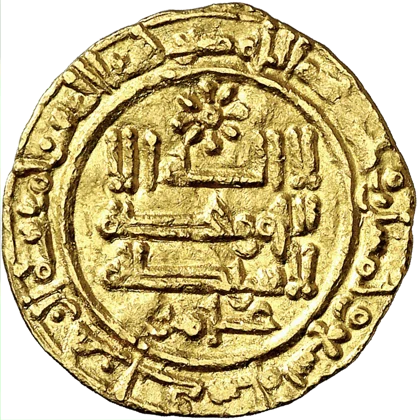
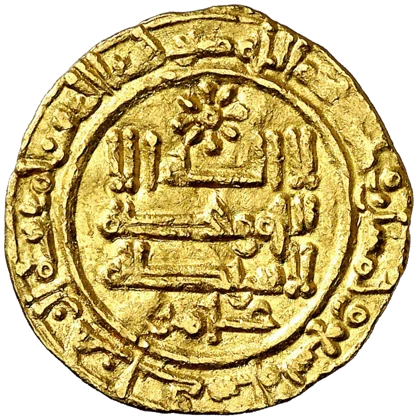
Vitrina de monedas: más brillo y presencia, Moneda7 nueva reprocesada y sin desenfoque en Moneda5/6

diff --git a/src/components/Workflow.tsx b/src/components/Workflow.tsx
@@ -158,14 +158,14 @@ export default function Workflow({ content: C }: Props) {
                 cobre carlista 30mm, dracma parto 20mm, dinar al-Hakam II 22mm, 8 reales 39mm */}
             {[
               // Anillo homogéneo: 8 posiciones equiespaciadas (N/S/E/O a r≈160, diagonales a r≈113)
-              { src: '/assets/Moneda2.webp', size: 130, left: 'calc(50% - 65px)',  top: 90,  opacity: 0.30, dur: '12s',   delay: '0.8s', rot: '-10deg', blur: 0 },   // N  trióbolo
-              { src: '/assets/Moneda7.webp', size: 66,  left: 'calc(50% + 80px)',  top: 164, opacity: 0.33, dur: '13s',   delay: '1.6s', rot: '14deg',  blur: 0 },   // NE dinar
-              { src: '/assets/Moneda4.webp', size: 90,  left: 'calc(50% + 125px)', top: 265, opacity: 0.33, dur: '13.5s', delay: '1.2s', rot: '10deg',  blur: 0 },   // E  4 escudos
-              { src: '/assets/Moneda3.webp', size: 63,  left: 'calc(50% + 82px)',  top: 392, opacity: 0.27, dur: '12.5s', delay: '2s',   rot: '8deg',   blur: 0 },   // SE rupia
-              { src: '/assets/Moneda8.webp', size: 117, left: 'calc(50% - 58px)',  top: 414, opacity: 0.33, dur: '14s',   delay: '0.4s', rot: '-5deg',  blur: 0 },   // S  8 reales
-              { src: '/assets/Moneda6.webp', size: 60,  left: 'calc(50% - 143px)', top: 393, opacity: 0.28, dur: '9.5s',  delay: '0.6s', rot: '-16deg', blur: 0.5 }, // SO dracma
-              { src: '/assets/Moneda5.webp', size: 90,  left: 'calc(50% - 215px)', top: 265, opacity: 0.22, dur: '10.5s', delay: '2.4s', rot: '18deg',  blur: 0.7 }, // O  carlista
-              { src: '/assets/Moneda1.webp', size: 57,  left: 'calc(50% - 142px)', top: 169, opacity: 0.34, dur: '11s',   delay: '0s',   rot: '-6deg',  blur: 0 },   // NO denario
+              { src: '/assets/Moneda2.webp', size: 130, left: 'calc(50% - 65px)',  top: 90,  opacity: 0.50, dur: '12s',   delay: '0.8s', rot: '-10deg', blur: 0 },   // N  trióbolo
+              { src: '/assets/Moneda7.webp', size: 66,  left: 'calc(50% + 80px)',  top: 164, opacity: 0.55, dur: '13s',   delay: '1.6s', rot: '14deg',  blur: 0 },   // NE dinar
+              { src: '/assets/Moneda4.webp', size: 90,  left: 'calc(50% + 125px)', top: 265, opacity: 0.55, dur: '13.5s', delay: '1.2s', rot: '10deg',  blur: 0 },   // E  4 escudos
+              { src: '/assets/Moneda3.webp', size: 63,  left: 'calc(50% + 82px)',  top: 392, opacity: 0.46, dur: '12.5s', delay: '2s',   rot: '8deg',   blur: 0 },   // SE rupia
+              { src: '/assets/Moneda8.webp', size: 117, left: 'calc(50% - 58px)',  top: 414, opacity: 0.55, dur: '14s',   delay: '0.4s', rot: '-5deg',  blur: 0 },   // S  8 reales
+              { src: '/assets/Moneda6.webp', size: 60,  left: 'calc(50% - 143px)', top: 393, opacity: 0.48, dur: '9.5s',  delay: '0.6s', rot: '-16deg', blur: 0 }, // SO dracma
+              { src: '/assets/Moneda5.webp', size: 90,  left: 'calc(50% - 215px)', top: 265, opacity: 0.42, dur: '10.5s', delay: '2.4s', rot: '18deg',  blur: 0 }, // O  carlista
+              { src: '/assets/Moneda1.webp', size: 57,  left: 'calc(50% - 142px)', top: 169, opacity: 0.58, dur: '11s',   delay: '0s',   rot: '-6deg',  blur: 0 },   // NO denario
             ].map((c, i) => (
               <img
                 key={i}
@@ -177,7 +177,7 @@ export default function Workflow({ content: C }: Props) {
                   position: 'absolute', left: c.left, top: c.top,
                   width: c.size, height: 'auto',
                   opacity: c.opacity,
-                  filter: `${c.blur ? `blur(${c.blur}px) ` : ''}contrast(1.18) brightness(1.08)`,
+                  filter: `${c.blur ? `blur(${c.blur}px) ` : ''}contrast(1.12) brightness(1.4)`,
                   pointerEvents: 'none',
                   ['--dur' as string]: c.dur,
                   ['--delay' as string]: c.delay,